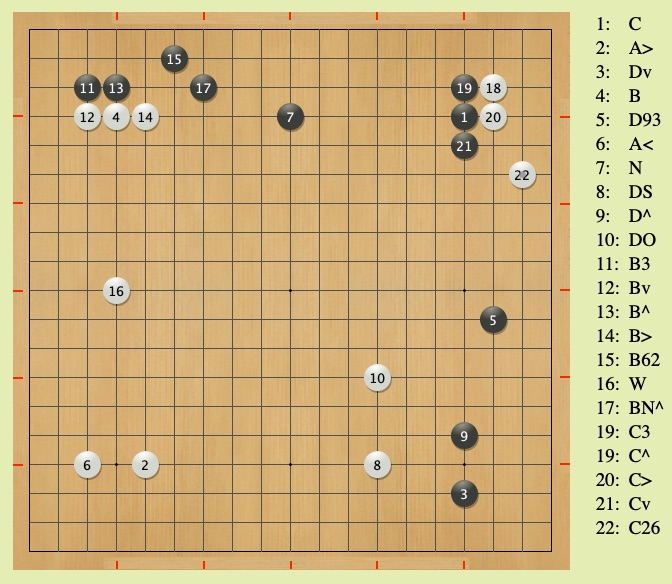
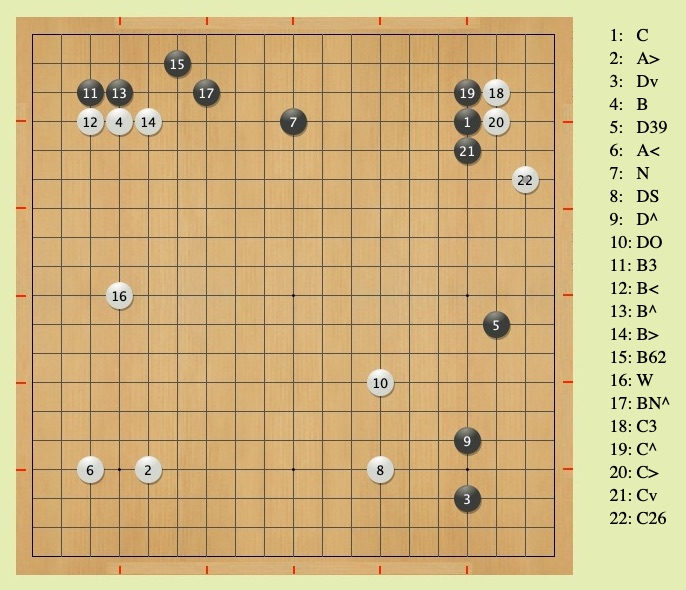
correct errors

Changed region(s): [[0.0, 0.0, 1.0, 0.9863]]

diff --git a/4q/intro.html b/4q/intro.html
@@ -74,7 +74,8 @@ whi { color:black; background-color:lightgray }
 <tr><td>p:</td><td><td>E9</td></tr>
 <tr><td>q:</td><td><td>S5</td></tr>
 </table>
-</td></tr></table>
+</td>
+</tr></table>
 
 <table><tr>
 <td valign=top>
@@ -113,35 +114,37 @@ whi { color:black; background-color:lightgray }
 
 <p>下面來看一個假想的佈局作為例子。<br><img src="fictitious-fuseki.jpg"></p>
 
-<!-- <table><tr>
-<td valign=top> <img src="fictitious-fuseki.PNG"> </td>
-<td width="50px"></td><td valign=top>
+<table><tr>
+<td valign=top> <img src="Untitled.png"> </td>
+<!--
+<td width="50px"></td><td valign=top style="padding-top:20px">
 <table>
-<tr><td>1:</td><td>C</td></tr>
-<tr><td>2:</td><td>A></td></tr>
-<tr><td>3:</td><td>Dv</td></tr>
-<tr><td>4:</td><td>B</td></tr>
-<tr><td>5:</td><td>D93</td></tr>
-<tr><td>6:</td><td>A&lt;</td></tr>
-<tr><td>7:</td><td>N</td></tr>
-<tr><td>8:</td><td>DS</td></tr>
-<tr><td>9:</td><td>D^</td></tr>
-<tr><td>10:</td><td>DO</td></tr>
-<tr><td>11:</td><td>B3</td></tr>
-<tr><td>12:</td><td>Bv</td></tr>
-<tr><td>13:</td><td>B^</td></tr>
-<tr><td>14:</td><td>B></td></tr>
-<tr><td>15:</td><td>B62</td></tr>
-<tr><td>16:</td><td>W</td></tr>
-<tr><td>17:</td><td>BN^</td></tr>
-<tr><td>18:</td><td>C3</td></tr>
-<tr><td>19:</td><td>C^</td></tr>
-<tr><td>20:</td><td>C></td></tr>
-<tr><td>21:</td><td>Cv</td></tr>
-<tr><td>22:</td><td>C26</td></tr>
+<tr><td style="font-size:18px">1:</td><td style="font-size:18px">C</td></tr>
+<tr><td style="font-size:18px">2:</td><td style="font-size:18px">A></td></tr>
+<tr><td style="font-size:18px">3:</td><td style="font-size:18px">Dv</td></tr>
+<tr><td style="font-size:18px">4:</td><td style="font-size:18px">B</td></tr>
+<tr><td style="font-size:18px">5:</td><td style="font-size:18px">D39</td></tr>
+<tr><td style="font-size:18px">6:</td><td style="font-size:18px">A&lt;</td></tr>
+<tr><td style="font-size:18px">7:</td><td style="font-size:18px">N</td></tr>
+<tr><td style="font-size:18px">8:</td><td style="font-size:18px">DS</td></tr>
+<tr><td style="font-size:18px">9:</td><td style="font-size:18px">D^</td></tr>
+<tr><td style="font-size:18px">10:</td><td style="font-size:18px">DO</td></tr>
+<tr><td style="font-size:18px">11:</td><td style="font-size:18px">B3</td></tr>
+<tr><td style="font-size:18px">12:</td><td style="font-size:18px">B&lt;</td></tr>
+<tr><td style="font-size:18px">13:</td><td style="font-size:18px">B^</td></tr>
+<tr><td style="font-size:18px">14:</td><td style="font-size:18px">B></td></tr>
+<tr><td style="font-size:18px">15:</td><td style="font-size:18px">B62</td></tr>
+<tr><td style="font-size:18px">16:</td><td style="font-size:18px">W</td></tr>
+<tr><td style="font-size:18px">17:</td><td style="font-size:18px">BN^</td></tr>
+<tr><td style="font-size:18px">18:</td><td style="font-size:18px">C3</td></tr>
+<tr><td style="font-size:18px">19:</td><td style="font-size:18px">C^</td></tr>
+<tr><td style="font-size:18px">20:</td><td style="font-size:18px">C></td></tr>
+<tr><td style="font-size:18px">21:</td><td style="font-size:18px">Cv</td></tr>
+<tr><td style="font-size:18px">22:</td><td style="font-size:18px">C26</td></tr>
 </table>
 </td>
-</tr></table> -->
+-->
+</tr></table>
 
 </td></tr></table>
 
